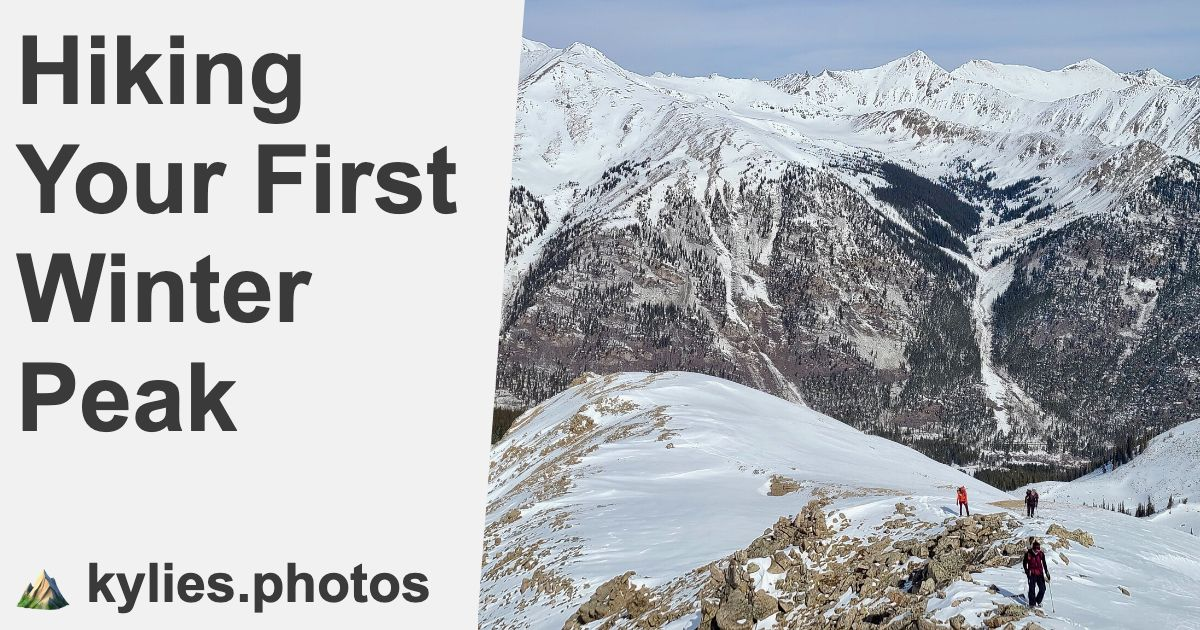
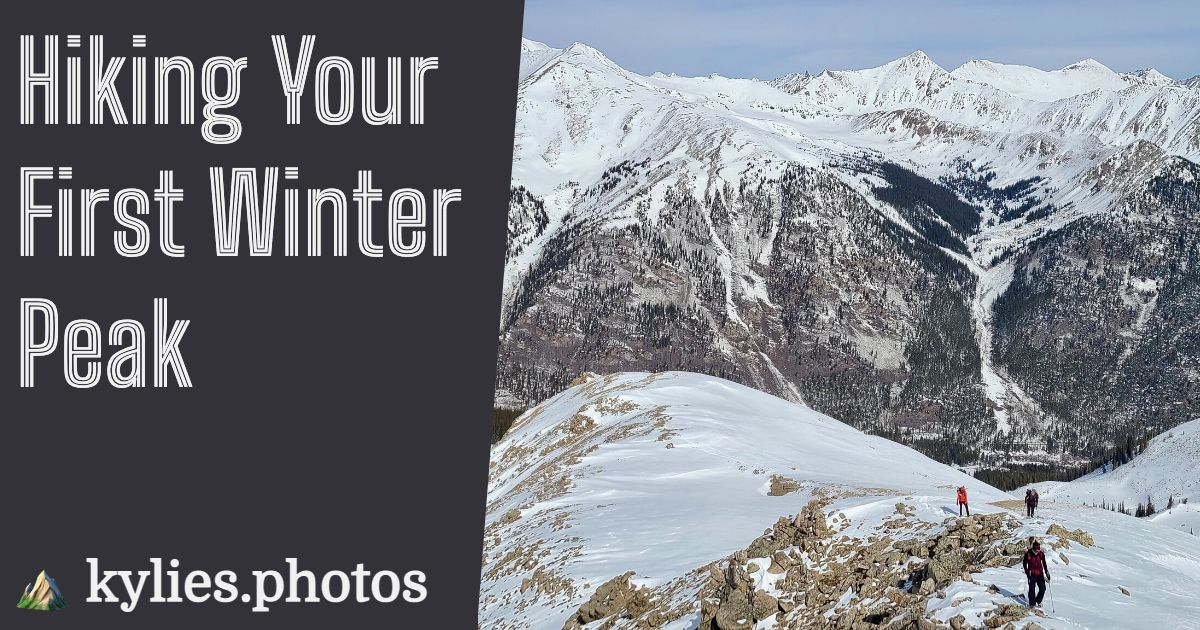
🌎 Social preview card improvements (#69)
* Optionally pass bg or text color to resoc

* Pull baseName from social data

* Feature more blogs than climbs for now

* Update card colors

* Add a check to stop pageProps from breaking the build

diff --git a/pages/blog.js b/pages/blog.js
@@ -2,7 +2,7 @@ import Category from '../components/Category'
 import FormattedDate from '../components/Date'
 import Layout from '../components/Layout'
 import Link from 'next/link'
-import { CATEGORY_TYPE, METADATA } from '../utils/constants'
+import { CATEGORY_TYPE, COLORS, METADATA } from '../utils/constants'
 import { getSortedPostsData } from '../utils/posts'
 import { socialImage } from '../utils/social-image'
 import { useEffect, useState } from 'react'
@@ -11,8 +11,6 @@ import { useRouter } from 'next/router'
 import categoryStyles from '../components/Category.module.css'
 import styles from '../styles/blog.module.css'
 import utilStyles from '../styles/utils.module.css'
-
-export const baseName = 'blog'
 
 export default function BlogLandingPage({ allPostsData }) {
   const [viewCategory, setCategory] = useState(CATEGORY_TYPE.ALL)
@@ -95,10 +93,15 @@ export async function getStaticProps() {
   return {
     props: {
       allPostsData,
-      baseName,
       description,
       title,
-      ...(await socialImage({ title, description, baseName })),
+      ...(await socialImage({
+        title,
+        description,
+        baseName: 'blog',
+        bgColor: COLORS.yellow,
+        textColor: COLORS.navy,
+      })),
     },
   }
 }

diff --git a/components/CustomHead.js b/components/CustomHead.js
@@ -5,9 +5,15 @@ import { METADATA } from '../utils/constants'
 
 const CustomHead = (pageProps) => {
   const router = useRouter()
-  const routeToPage = `https://${METADATA.SITE_NAME}/${
-    pageProps.baseName !== 'home' ? pageProps.baseName : ''
-  }`
+  const getPageUrl = () => {
+    if (pageProps.baseName && pageProps.baseName.indexOf('post-') === 0) {
+      return `https://${METADATA.SITE_NAME}/${pageProps.postData.category}/${pageProps.postData.id}`
+    } else if (pageProps.baseName && pageProps.baseName === 'home') {
+      return `https://${METADATA.SITE_NAME}`
+    }
+
+    return `https://${METADATA.SITE_NAME}/${pageProps.baseName}`
+  }
 
   return (
     <Head>
@@ -68,7 +74,7 @@ const CustomHead = (pageProps) => {
       <meta property="og:image:width" content={FacebookOpenGraph.width} />
       <meta property="og:image:height" content={FacebookOpenGraph.height} />
       <meta property="og:type" content="website" />
-      <meta property="og:url" content={routeToPage} />
+      <meta property="og:url" content={getPageUrl()} />
 
       <meta property="og:title" content={pageProps.title} />
       <title>{`${pageProps.title} · ${METADATA.SITE_NAME}`}</title>

diff --git a/pages/index.js b/pages/index.js
@@ -1,7 +1,7 @@
 import Card from '../components/Card'
 import Layout from '../components/Layout'
 import ResponsiveImage from '../components/ResponsiveImage'
-import { METADATA } from '../utils/constants'
+import { COLORS, METADATA } from '../utils/constants'
 import { getRecentPosts } from '../utils/posts'
 import { socialImage } from '../utils/social-image'
 
@@ -13,8 +13,6 @@ import MobileLanderBottom from '../public/photos/Mlander_bottom.png'
 
 import styles from '../components/Layout.module.css'
 import utilStyles from '../styles/utils.module.css'
-
-const baseName = 'home'
 
 const HomePage = ({ featuredPosts }) => (
   <Layout home>
@@ -50,11 +48,15 @@ export async function getStaticProps() {
 
   return {
     props: {
-      baseName,
+      title,
       description,
       featuredPosts,
-      title,
-      ...(await socialImage({ title, description, baseName })),
+      ...(await socialImage({
+        title,
+        description,
+        baseName: 'home',
+        bgColor: COLORS.blue,
+      })),
     },
   }
 }

diff --git a/pages/[category]/[id].js b/pages/[category]/[id].js
@@ -3,6 +3,7 @@ import Category from '../../components/Category'
 import FormattedDate from '../../components/Date'
 import Layout from '../../components/Layout'
 import ReactMarkdown from 'react-markdown'
+import { COLORS } from '../../utils/constants'
 import { getAllPostIds, getPostData, getSortedPostsData } from '../../utils/posts'
 import { socialImage } from '../../utils/social-image'
 
@@ -134,12 +135,13 @@ export async function getStaticProps({ params }) {
       postIds,
       title,
       description,
-      baseName: `${params.category}/${params.id}`,
       ...(await socialImage({
         title,
         description,
         previewImgUrl: postData.previewImgUrl,
         baseName: `post-${params.id}`,
+        bgColor: postData.bgColor ? postData.bgColor : COLORS.teal,
+        textColor: postData.textColor ? postData.textColor : COLORS.white,
       })),
     },
   }

diff --git a/utils/social-image.js b/utils/social-image.js
@@ -1,14 +1,24 @@
 import path from 'path'
 import { compileLocalTemplate } from '@resoc/create-img'
 import { FacebookOpenGraph } from '@resoc/core'
+import { COLORS } from './constants'
 
-async function socialImage({ title, description, baseName, previewImgUrl }) {
+async function socialImage({
+  title,
+  description,
+  baseName,
+  previewImgUrl,
+  bgColor = COLORS.grey,
+  textColor = COLORS.white,
+}) {
   const ogImage = await compileLocalTemplate(
     'resoc-template/resoc.manifest.json',
     {
       title,
       description,
       previewImgUrl,
+      bgColor,
+      textColor,
     },
     FacebookOpenGraph,
     `public/open-graph/${baseName}.jpg`
@@ -17,6 +27,7 @@ async function socialImage({ title, description, baseName, previewImgUrl }) {
   return {
     title,
     description,
+    baseName,
     ogImage: path.basename(ogImage),
   }
 }

diff --git a/pages/climb-log.js b/pages/climb-log.js
@@ -13,6 +13,7 @@ import {
   ALL_MONTHS,
   AREA_TYPE,
   CATEGORY_TYPE,
+  COLORS,
   METADATA,
   PREVIEW_IMAGES,
   TABLE_SORT_ORDER,
@@ -22,8 +23,6 @@ import { fetchAllClimbs } from '../utils/notion'
 import { socialImage } from '../utils/social-image'
 
 import tableStyles from '../components/Table.module.css'
-
-const baseName = 'climb-log'
 
 const ClimbLog = ({ allClimbs }) => {
   const [metric, setMetric] = useState(false)
@@ -278,13 +277,13 @@ export async function getStaticProps() {
     props: {
       allClimbs: response,
       title,
-      baseName,
       description,
       ...(await socialImage({
         title,
         description,
         previewImgUrl: PREVIEW_IMAGES.CLIMB_LOG_IMAGE,
-        baseName,
+        baseName: 'climb-log',
+        bgColor: COLORS.navy,
       })),
     },
   }

diff --git a/pages/about.js b/pages/about.js
@@ -8,8 +8,6 @@ import { socialImage } from '../utils/social-image'
 import styles from '../styles/about.module.css'
 import utilStyles from '../styles/utils.module.css'
 
-const baseName = 'about'
-
 const AboutPage = () => (
   <Layout>
     <h1 className={`${utilStyles.headingXl} ${utilStyles.centerText}`}>
@@ -83,13 +81,13 @@ export async function getStaticProps() {
   return {
     props: {
       title,
-      baseName,
       description,
       ...(await socialImage({
         title,
         description,
         previewImgUrl: PREVIEW_IMAGES.ABOUT_IMAGE,
-        baseName,
+        baseName: 'about',
+        bgColor: '#993e41',
       })),
     },
   }

diff --git a/pages/404.js b/pages/404.js
@@ -6,8 +6,6 @@ import { socialImage } from '../utils/social-image'
 
 import utilStyles from '../styles/utils.module.css'
 
-const baseName = '404'
-
 const NotFoundPage = () => {
   return (
     <Layout>
@@ -29,12 +27,12 @@ export async function getStaticProps() {
     props: {
       title,
       description,
-      baseName,
       ...(await socialImage({
         title,
         description,
         previewImgUrl: PREVIEW_IMAGES.NOT_FOUND_IMAGE,
-        baseName,
+        baseName: '404',
+        bgColor: '#3381cc',
       })),
     },
   }

diff --git a/utils/constants.js b/utils/constants.js
@@ -45,6 +45,15 @@ export const CATEGORY_TYPE = {
   THOUGHTS: 'thoughts',
 }
 
+export const COLORS = {
+  blue: '#2078ae',
+  grey: '#3a3a3a',
+  navy: '#11162b',
+  teal: '#285f76',
+  white: '#f1f1f1',
+  yellow: '#bc8d02',
+}
+
 export const CONNECT = [
   { title: 'Instagram', href: 'https://www.instagram.com/kalestews/' },
   { title: 'AllTrails', href: 'https://www.alltrails.com/members/kylie-stewart-1' },

diff --git a/utils/posts.js b/utils/posts.js
@@ -141,7 +141,7 @@ export function getSortedPostsData() {
 // Create an array of five most recent objects to present
 // on the landing page (2 blog posts + 3 climbs)
 export async function getRecentPosts() {
-  const recentBlogs = getSortedPostsData().splice(0, 3)
+  const recentBlogs = getSortedPostsData().splice(0, 4)
   const featuredBlogs = recentBlogs.map((post) => {
     return {
       id: post.id,

diff --git a/utils/notion.js b/utils/notion.js
@@ -97,7 +97,7 @@ const formatClimbs = (response) => {
  * featured on the home page
  */
 export const fetchMostRecentClimbs = async () => {
-  const config = getDatabaseQueryConfig(null, 3)
+  const config = getDatabaseQueryConfig(null, 2)
   config.sorts = [{ property: 'date', direction: 'descending' }]
   let response = await notion.databases.query(config)
   return formatClimbs(response.results)

diff --git a/blog/thoughts/2021.md b/blog/thoughts/2021.md
@@ -1,0 +1,41 @@
+---
+title: 'Reflecting on 2021'
+date: '2021-12-31'
+previewImgUrl: 'https://live.staticflickr.com/65535/51792878161_645bf2d9db_b.jpg'
+bgColor: '#fb9a9a'
+textColor: '#0d293e'
+---
+
+At the beginning of the 2021, I started to consider what kind of goal I could set for myself in the outdoors. Having only ever set running goals and not knowing where to begin for setting a larger goal in a different environment, I began to weigh a few options against each other. Did I want to pursue a specific number of high peaks? Finish summits within a list or range? A set number of days hiking, or should I just pursue a statistic? Maybe distance or gain? The more I thought about it, the more I realized I didn't want to go after a set number of summits because it put too much pressure on any one individual climb. Logging a certain number of days in the alpine also ran the risk of putting too much pressure on getting out when conditions might be otherwise sub-par just to satisfy a number.
+
+Instead, I set my sights on a set statistic. Elevation seemed like a fun one to target, as it demanded a little more planning than just distance. After looking at the year prior’s achievements, I settled on a goal that was also a tribute to the year we had just entered: 202.1k’ (202,100 feet) of gain. This was 4x what I was able to climb while full-time employed the year prior. It was certainly going to take some effort, but it felt attainable.
+
+![grizzly-sunrise](https://live.staticflickr.com/65535/51792878161_645bf2d9db_b.jpg)
+
+_A snowy June sunrise seen from the saddle between "Cupid" Peak and Mount Sniktau._
+
+I was excited about this goal because it posed a different kind of challenge. Did I want to exclusively go after peaks with a large amount of gain? Or did I want to pursue a mix of easier and more difficult routes? I needed to average ~17,000 feet each month to stay on track, and I quickly found myself ahead of schedule halfway through January. If I did decide to mix smaller climbs in with my larger days, I was going to make quick work of this goal. So I looked to diversify my routes even more.
+
+## My 2021 Hiking Statistics
+
+For a more in-depth look at my 2021 climbs, check out the [climb-log](https://kylies.photos/climb-log).
+
+_Total elevation gain:_ 223,907 feet
+
+_Total distance:_ 624.75 miles
+
+### 14ers
+
+- Climbed **31** 14ers
+- Top 3 routes:
+  1. [Pyramid Peak](https://kalestew.notion.site/Pyramid-Peak-924fb3288a654ed69d3d4fc1e084a8dd): climbing alongside mountain goats was the experience of a lifetime, but this class 4 route also has a lot of fun moves including a “leap of faith”.
+  2. [Mount of the Holy Cross via Halo Ridge](https://kalestew.notion.site/Mount-of-the-Holy-Cross-via-Halo-Ridge-d293c97a885a4721bf9c6eeb6b67d182): a super rewarding loop and great way to start your season as you spend a few hours traversing a ridge above 13k. Sunrise on Holy Cross from the Notch shelter is indescribable.
+  3. [Maroon Bells Traverse](https://kalestew.notion.site/Maroon-Bells-Traverse-3ee8a68ac1334e658e523c5bfd1821f2): I’ve heard folks call this a “one and done” type of route, but I would be happy to repeat it every year for the rest of my climbing career. The class 5 moves are involved but exhilarating, and the views of other Elk peaks are unparalleled from that saddle.
+
+### 13ers
+
+- Climbed **28** 13ers
+- Top 3 routes:
+  1. [“K2”](https://kalestew.notion.site/K2-Capitol-Peak-0a48efaa950749bb85ed60ed7f3f5760): Capitol Peak’s chossy 13,664’ neighbor, accessed from a beautiful backpacking route up to an alpine lake.
+  2. [”The Citadel”](https://kalestew.notion.site/The-Citadel-via-Herman-Gulch-92720531255f4d29ad0a7717634d55e3): one of the peaks seen from Herman Gulch, this lesser-traveled peak has class 3 and 4 routes to its summit including a fun 40’ chimney.
+  3. [Mount Sniktau](https://kalestew.notion.site/Mount-Sniktau-2fa7c780e25a4d2c8d888336768105f2): honorable mention because of its versatility. Being off of a paved mountain pass, this peak is easy to get to and offers a number of alternative combos if you want to add additional gain or views to your day.
